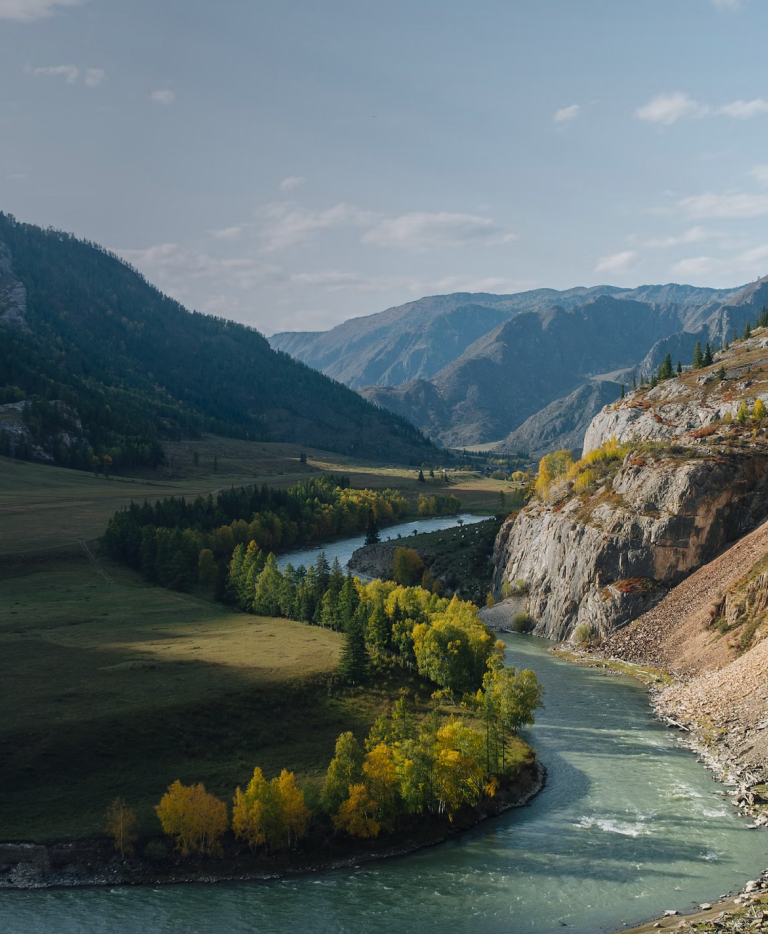
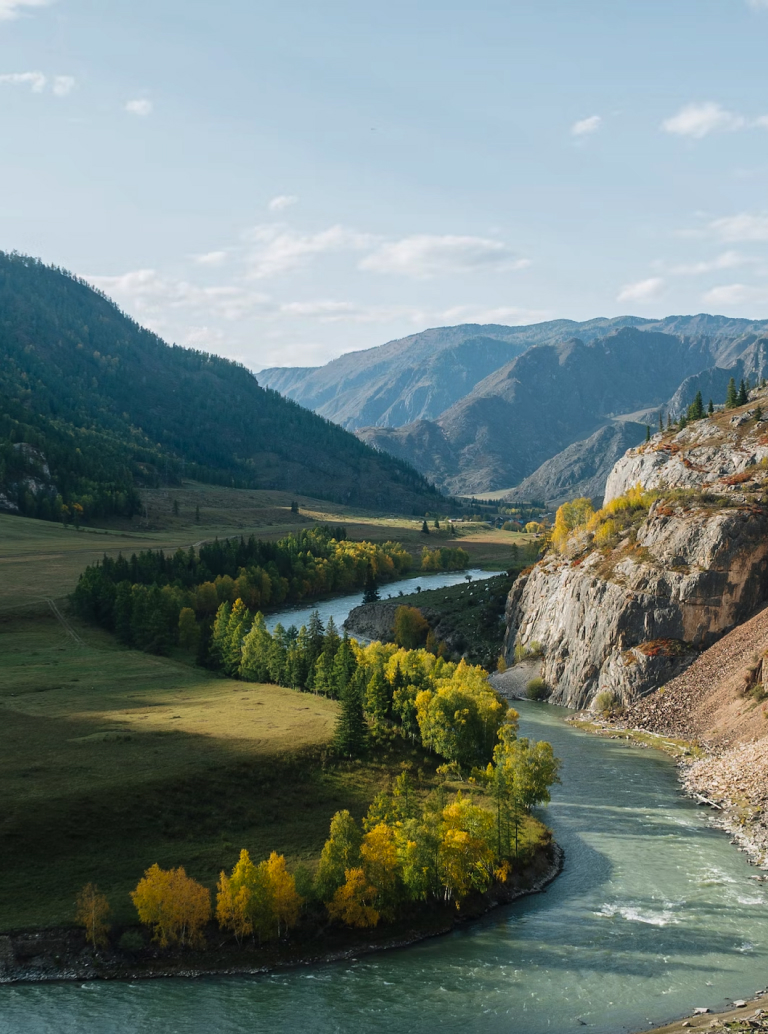
hero background changes

diff --git a/source/index.html b/source/index.html
@@ -58,38 +58,44 @@
       <div class="hero__slider swiper">
         <div class="hero__wrapper swiper-wrapper">
           <div class="hero__slide swiper-slide">
-            <div class="hero__slide-content">
-              <h3>Захватывающие вершины Кавказа</h3>
-              <p>В сопровождении опытных гидов вы пройдёте через потрясающие ландшафты и совершите
-                восход на вершину горы Чегет.</p>
-              <a class="hero__link link button" href="#" tabindex="0">Смотреть тур</a>
-              <div class="hero__info">
-                <span class="hero__text hero__text--days">6 дней/5 ночей</span>
-                <span class="hero__text hero__text--level">Высокая сложность</span>
+            <div class="hero__slide-container">
+              <div class="hero__slide-content">
+                <h3>Захватывающие вершины Кавказа</h3>
+                <p>В сопровождении опытных гидов вы пройдёте через потрясающие ландшафты и совершите
+                  восход на вершину горы Чегет.</p>
+                <a class="hero__link link button" href="#" tabindex="0">Смотреть тур</a>
+                <div class="hero__info">
+                  <span class="hero__text hero__text--days">6 дней/5 ночей</span>
+                  <span class="hero__text hero__text--level">Высокая сложность</span>
+                </div>
               </div>
             </div>
           </div>
           <div class="hero__slide swiper-slide">
-            <div class="hero__slide-content hero__slide-content--special">
-              <h3>Невероятная природа Камчатки</h3>
-              <p>Незабываемое приключение, во время которого вы отправитесь в путешествие по одному из
-                самых нетронутых уголков дикой природы в мире.</p>
-              <a class="hero__link link button" href="#" tabindex="-1">Смотреть тур</a>
-              <div class="hero__info">
-                <span class="hero__text hero__text--days">9 дней/10 ночей</span>
-                <span class="hero__text hero__text--level">Средняя сложность</span>
+            <div class="hero__slide-container">
+              <div class="hero__slide-content hero__slide-content--special">
+                <h3>Невероятная природа Камчатки</h3>
+                <p>Незабываемое приключение, во время которого вы отправитесь в путешествие по одному из
+                  самых нетронутых уголков дикой природы в мире.</p>
+                <a class="hero__link link button" href="#" tabindex="-1">Смотреть тур</a>
+                <div class="hero__info">
+                  <span class="hero__text hero__text--days">9 дней/10 ночей</span>
+                  <span class="hero__text hero__text--level">Средняя сложность</span>
+                </div>
               </div>
             </div>
           </div>
           <div class="hero__slide swiper-slide">
-            <div class="hero__slide-content">
-              <h3>Магические пейзажи Алтайского Края</h3>
-              <p>Алтайский трекинг-тур — это захватывающее приключение с посещением магических и
-                захватывающих дух ландшафтов Алтайских гор.</p>
-              <a class="hero__link link button" href="#" tabindex="-1">Смотреть тур</a>
-              <div class="hero__info">
-                <span class="hero__text hero__text--days">8 дней/7 ночей</span>
-                <span class="hero__text hero__text--level">Лёгкая сложность</span>
+            <div class="hero__slide-container">
+              <div class="hero__slide-content">
+                <h3>Магические пейзажи Алтайского Края</h3>
+                <p>Алтайский трекинг-тур — это захватывающее приключение с посещением магических и
+                  захватывающих дух ландшафтов Алтайских гор.</p>
+                <a class="hero__link link button" href="#" tabindex="-1">Смотреть тур</a>
+                <div class="hero__info">
+                  <span class="hero__text hero__text--days">8 дней/7 ночей</span>
+                  <span class="hero__text hero__text--level">Лёгкая сложность</span>
+                </div>
               </div>
             </div>
           </div>
@@ -352,12 +358,10 @@
           <span>О нас</span>
           <ul>
             <li>История компании
-              <p>В далёком 2000 году мы начали заниматься туризмом — походы, поездки, восхождения, <br> нам это настолько понравилось, что&nbsp;мы этим стали жить. Спустя&nbsp;5 лет, <br> в 2005 году мы основали компанию,
-                чтобы показывать людям удивительные места нашей страны.</p>
+              <p>В далёком 2000 году мы начали заниматься туризмом — походы, поездки, восхождения, <br> нам это настолько понравилось, что&nbsp;мы этим стали жить. Спустя&nbsp;5 лет, <br> в 2005 году мы основали компанию, чтобы показывать людям удивительные места нашей страны.</p>
             </li>
             <li>Наша цель
-              <p>Подарить вам незабываемые впечатления от похода в горы. Мы&nbsp;берём на себя все&nbsp;организационные вопросы. При&nbsp;организации мы&nbsp;обязательно учтём все&nbsp;ваши пожелания. Вам&nbsp;останется
-                только наслаждаться незабываемым приключением в&nbsp;приятной компании.</p>
+              <p>Подарить вам незабываемые впечатления от похода в горы. Мы&nbsp;берём на себя все&nbsp;организационные вопросы. При&nbsp;организации мы&nbsp;обязательно учтём все&nbsp;ваши пожелания. Вам&nbsp;останется только наслаждаться незабываемым приключением в&nbsp;приятной компании.</p>
             </li>
           </ul>
         </div>
@@ -399,11 +403,8 @@
                 </picture>
                 <div class="reviews__wrapper">
                   <div class="reviews__box">
-                    <p>Осенью ходили в поход на Алтай с&nbsp;друзьями. Впечатления потрясающие! Инструкторы, настоящие
-                      эксперты, всему научили, все&nbsp;показали. Делились историями о&nbsp;местах, людях, культуре
-                      места.</p>
-                    <p>С уверенностью могу сказать, что&nbsp;жизнь разделилась на до этого и&nbsp;после. Ещё никогда не
-                      отдыхал так&nbsp;душой и телом. Всем очень рекомендую!</p>
+                    <p>Осенью ходили в поход на Алтай с&nbsp;друзьями. Впечатления потрясающие! Инструкторы, настоящие эксперты, всему научили, все&nbsp;показали. Делились историями о&nbsp;местах, людях, культуре места.</p>
+                    <p>С уверенностью могу сказать, что&nbsp;жизнь разделилась на до этого и&nbsp;после. Ещё никогда не отдыхал так&nbsp;душой и телом. Всем очень рекомендую!</p>
                   </div>
                   <h3 class="reviews__text reviews__text--name">Фролов Александр</h3>
                   <span class="reviews__text">38 лет, Москва</span>
@@ -436,11 +437,8 @@
                 </picture>
                 <div class="reviews__wrapper">
                   <div class="reviews__box">
-                    <p class="reviews__description">Хороший полноценный поход с&nbsp;разнообразными локациями.
-                      В&nbsp;начале дорога идёт по лыжне, далее прошли мимо полигона, по болотам, у озёр и лесных
-                      ручьёв, остатков дач конца 19 века. Было очень интересно!</p>
-                    <p class="reviews__description">Инструктор Федор дружелюбный, внимательный к технике безопасности
-                      и своим туристам. Всем советую этот тур.</p>
+                    <p class="reviews__description">Хороший полноценный поход с&nbsp;разнообразными локациями. В&nbsp;начале дорога идёт по лыжне, далее прошли мимо полигона, по болотам, у озёр и лесных ручьёв, остатков дач конца 19 века. Было очень интересно!</p>
+                    <p class="reviews__description">Инструктор Федор дружелюбный, внимательный к технике безопасности и своим туристам. Всем советую этот тур.</p>
                   </div>
                   <h3 class="reviews__text reviews__text--name">Иван Соловьёв</h3>
                   <span class="reviews__text">25 лет, Владивосток</span>
@@ -473,9 +471,7 @@
                 </picture>
                 <div class="reviews__wrapper">
                   <div class="reviews__box">
-                    <p class="reviews__description">Ранее не ходила на такие длинные дистанции. В первый день прошли
-                      около 30 км, физически я устала на 18 км, поэтому не была уверена, пройду ли до конца. Но я справилась.
-                      Второй день прошёл легче, чем ожидала, видимо организм уже привык.</p>
+                    <p class="reviews__description">Ранее не ходила на такие длинные дистанции. В первый день прошли около 30 км, физически я устала на 18 км, поэтому не была уверена, пройду ли до конца. Но я справилась. Второй день прошёл легче, чем ожидала, видимо организм уже привык.</p>
                     <p class="reviews__description">Спасибо ребятам, инструкторам за помощь и поддержку! Я была рада быть в такой компании.</p>
                   </div>
                   <h3 class="reviews__text reviews__text--name">Евгения Баженова</h3>
@@ -509,11 +505,8 @@
                 </picture>
                 <div class="reviews__wrapper">
                   <div class="reviews__box">
-                    <p class="reviews__description">Это был опыт, изменивший мою жизнь! Думала, не справлюсь, но все
-                      получилось! Дух захватывает, когда наконец‑то, преодолев все&nbsp;трудности и препятствия,
-                      взбираешься на вершину.</p>
-                    <p class="reviews__description">У нас собралась потрясающая команда. Все друг друга
-                      поддерживали, по вечерам мы сидели вместе у костра и пели песни. Обязательно повторю такое приключение!</p>
+                    <p class="reviews__description">Это был опыт, изменивший мою жизнь! Думала, не справлюсь, но все получилось! Дух захватывает, когда наконец‑то, преодолев все&nbsp;трудности и препятствия, взбираешься на вершину.</p>
+                    <p class="reviews__description">У нас собралась потрясающая команда. Все друг друга поддерживали, по вечерам мы сидели вместе у костра и пели песни. Обязательно повторю такое приключение!</p>
                   </div>
                   <h3 class="reviews__text reviews__text--name">Елена Пирогова</h3>
                   <span class="reviews__text">37 лет, Тюмень</span>
@@ -534,9 +527,7 @@
           <div class="advantages__slide swiper-slide">
             <div class="advantages__content advantages__content--safety">
               <h3 class="advantages__heading">Безопасность</h3>
-              <p class="advantages__text">Уделяем внимание безопасности клиентов, внедряя строгие процедуры
-                и&nbsp;протоколы безопасности. Имеем планы действий на&nbsp;случай непредвиденных обстоятельств
-                и&nbsp;даём гарантию полной безопасности во&nbsp;время всего тура.</p>
+              <p class="advantages__text">Уделяем внимание безопасности клиентов, внедряя строгие процедуры и&nbsp;протоколы безопасности. Имеем планы действий на&nbsp;случай непредвиденных обстоятельств и&nbsp;даём гарантию полной безопасности во&nbsp;время всего тура.</p>
             </div>
           </div>
 
@@ -579,8 +570,7 @@
       <h2 class="gallery__title inner-title">Фотогалерея</h2>
       <span class="gallery__title-shadow inner-title-shadow" aria-hidden="true">Фотогалерея</span>
       <div class="gallery__container">
-        <p>Добавляйте фото в с хэштегом #лайфтур, <br> а также отмечайте нас на фото. Лучшие фотографии украсят этот
-          раздел нашего сайта.</p>
+        <p>Добавляйте фото в с хэштегом #лайфтур, <br> а также отмечайте нас на фото. Лучшие фотографии украсят этот раздел нашего сайта.</p>
         <div class="gallery__navigation">
           <div class="gallery-button-prev swiper-button swiper-button-prev" tabindex="0"></div>
           <div class="gallery-button-next swiper-button swiper-button-next" tabindex="0"></div>
@@ -705,9 +695,11 @@
         <p>Заполните форму и наш оператор свяжется <br> с вами для консультации.</p>
         <form class="form__form" id="form" action="https://echo.htmlacademy.ru" method="post">
           <label class="form__label" for="phone">Телефон</label>
-          <input class="form__input form__input-phone" type="tel" id="phone" name="phone" minlength="12" maxlength="12" placeholder="Телефон" pattern="^((+7|)+([0-9]){10})$" autocomplete="off" required>
+          <input class="form__input form__input-phone" type="tel" id="phone" name="phone" minlength="12" maxlength="12"
+            placeholder="Телефон" pattern="^((+7|)+([0-9]){10})$" autocomplete="off" required>
           <label class="form__label" for="email">Email</label>
-          <input class="form__input form__input-email" type="email" id="email" name="email" placeholder="Email" pattern="^[a-zA-Zа-яА-Я0-9_-.]{2,}@[a-zA-Zа-яА-Я]{2,}.[a-zA-Zа-яА-Я]{2,}$" autocomplete="off" required>
+          <input class="form__input form__input-email" type="email" id="email" name="email" placeholder="Email"
+            pattern="^[a-zA-Zа-яА-Я0-9_-.]{2,}@[a-zA-Zа-яА-Я]{2,}.[a-zA-Zа-яА-Я]{2,}$" autocomplete="off" required>
           <button class="form__button button" type="submit">Отправить</button>
         </form>
       </div>
@@ -718,8 +710,7 @@
       <div class="contacts__wrapper">
         <h2 class="contacts__title inner-title">Контакты</h2>
         <span class="contacts__title-shadow inner-title-shadow" aria-hidden="true">Контакты</span>
-        <p>Свяжитесь с нами любым удобным для вас способом или приходите к&nbsp;нам в гости. Мы будем рады поделиться
-          увлекательными историями и подобрать для вас тур.</p>
+        <p>Свяжитесь с нами любым удобным для вас способом или приходите к&nbsp;нам в гости. Мы будем рады поделиться увлекательными историями и подобрать для вас тур.</p>
         <ul class="contacts__list">
           <li class="contacts__item">Телефон
             <a class="contacts__link link" href="tel:+79837454545">+7 983 745-45-45</a>

diff --git a/source/sass/blocks/hero/hero.scss b/source/sass/blocks/hero/hero.scss
@@ -23,6 +23,19 @@
   cursor: pointer;
 }
 
+.hero__slide-container {
+  background: linear-gradient(142.94deg, rgba(15, 20, 41, 0.33) 12.38%, rgba(15, 20, 41, 0) 99.43%);
+  min-height: 568px;
+
+  @media (min-width: $tablet-width) {
+    min-height: 1033px;
+  }
+
+  @media (min-width: $desktop-width) {
+    min-height: auto;
+  }
+}
+
 .hero__slide:nth-child(1) {
   background-image: url("../img/hero/caucasus-mobile.jpg");
 
